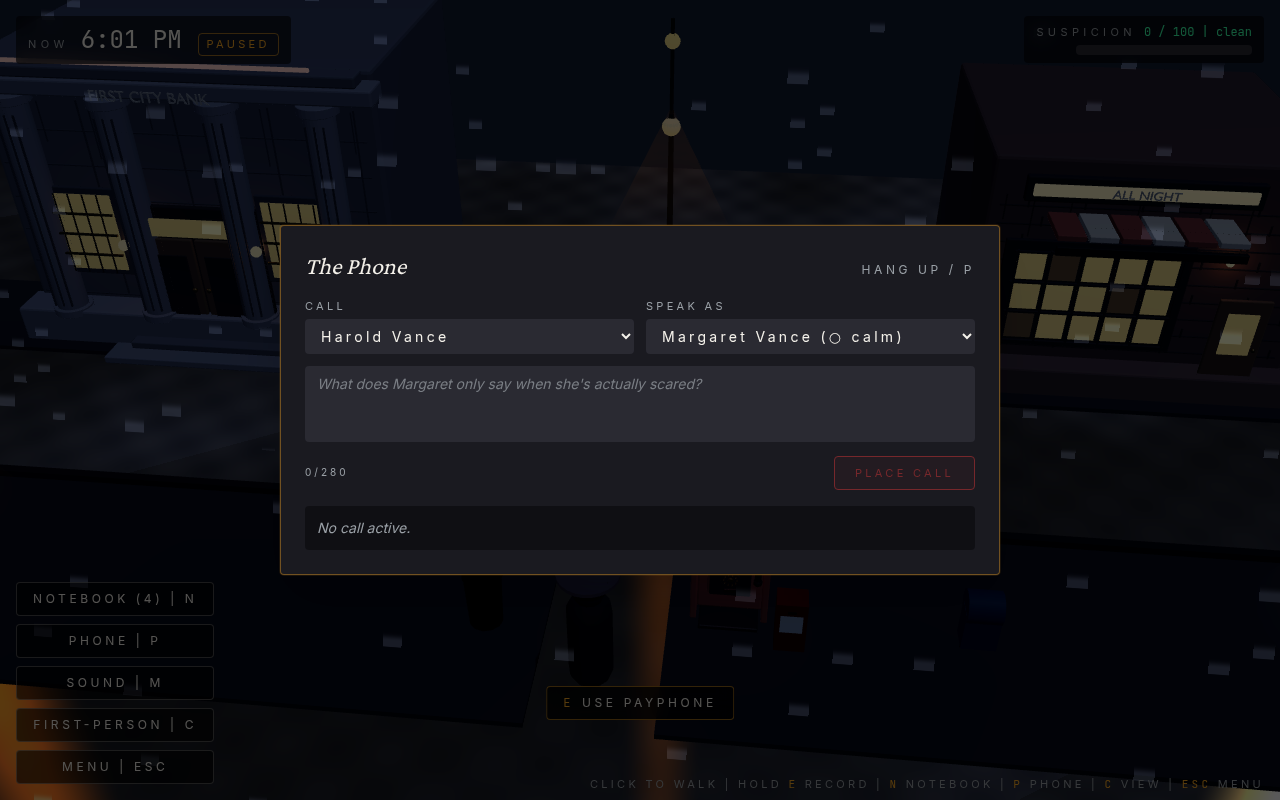
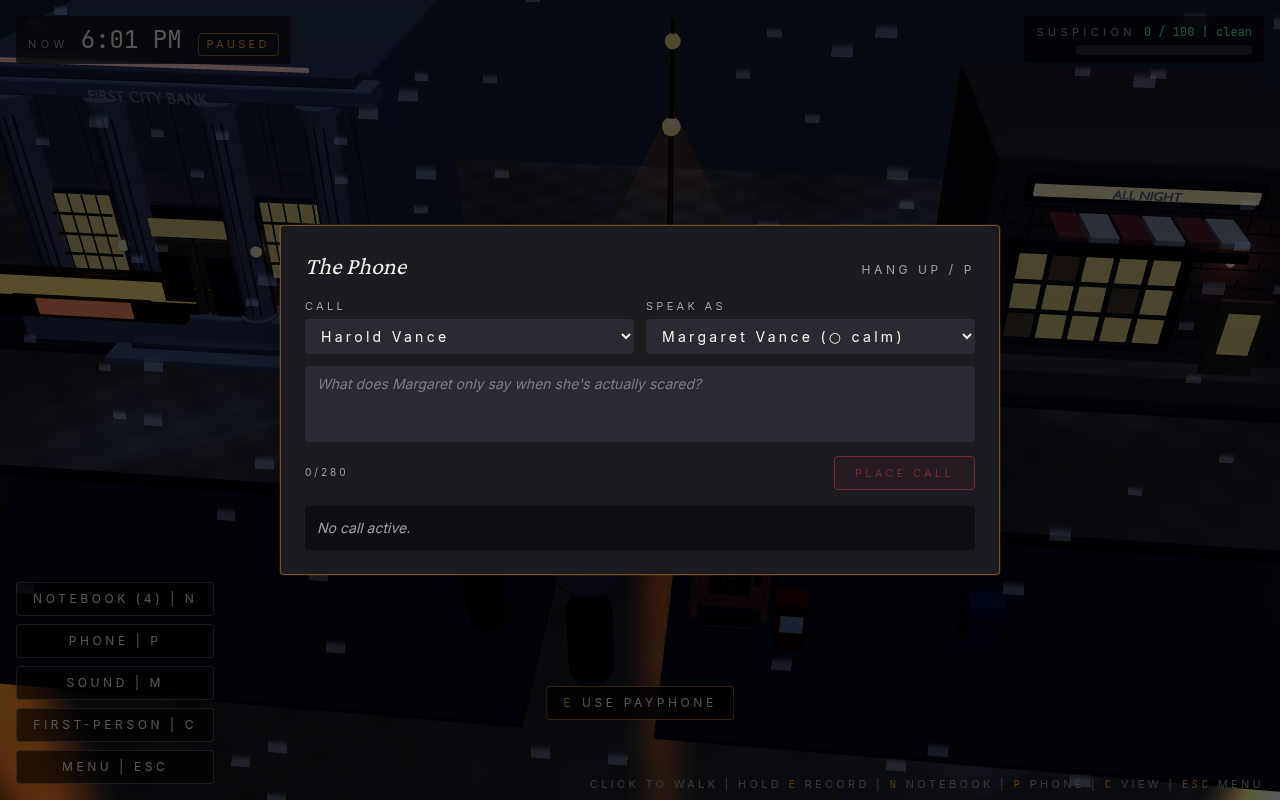
Detailed Briefcase + NeonBankSign props, escalating auth-failure heat
Visual lift (immediate, runtime):
- New Briefcase prop replaces the 3-box stub inside the vault. Brass
  corners, riveted clasp, leather-wrapped handle, brass top trim — reads
  as "the object you came for" instead of a generic block.
- New NeonBankSign mounts above the bank facade on the street. Stacked
  amber "FIRST CITY" / red "BANK" emissive bars with brass mounting
  brackets and a faint amber wash spilling onto the wall behind.

Both are also added to scripts/blender/noir_kit.py (alongside a
street-mailbox factory) so users running `npm run generate-assets` get
higher-quality baked GLB versions over the runtime primitives.

Gameplay deepening: escalating auth-failure heat. The first failed voice
auth costs 15 heat (kinder than the old flat 20 — first gamble is safe).
Each subsequent failure adds 5 heat, capped at 40. Brute-forcing every
card in the notebook used to be a cheap fishing strategy; now it self-
defeats. The auth dialog also surfaces the upcoming cost ("logged N
failed attempts; next miss draws X heat") so players can see the
pressure before clicking.

E2E 60/60 still passing.

diff --git a/src/components/props/Briefcase.tsx b/src/components/props/Briefcase.tsx
@@ -1,0 +1,74 @@
+"use client";
+
+interface Props {
+  position: [number, number, number];
+}
+
+/**
+ * The briefcase on its pedestal inside the vault. Brass corners, clasp,
+ * leather-wrapped handle. Replaces an earlier 3-box stub and reads as
+ * "object you're stealing" rather than "block".
+ */
+export default function Briefcase({ position }: Props) {
+  return (
+    <group position={position}>
+      {/* Wood pedestal */}
+      <mesh position={[0, 0.46, 0]} castShadow>
+        <boxGeometry args={[0.74, 0.92, 0.6]} />
+        <meshStandardMaterial color="#3a2114" roughness={0.5} />
+      </mesh>
+      {/* Brass cap */}
+      <mesh position={[0, 0.94, 0]}>
+        <boxGeometry args={[0.78, 0.04, 0.64]} />
+        <meshStandardMaterial color="#a87828" metalness={0.9} roughness={0.32} />
+      </mesh>
+      {/* Body */}
+      <mesh position={[0, 1.05, 0]} castShadow>
+        <boxGeometry args={[0.62, 0.18, 0.44]} />
+        <meshStandardMaterial color="#3a2114" roughness={0.45} />
+      </mesh>
+      {/* Brass corners — front */}
+      {[
+        [-0.28, 0.97, -0.19],
+        [0.28, 0.97, -0.19],
+        [-0.28, 1.13, -0.19],
+        [0.28, 1.13, -0.19],
+        [-0.28, 0.97, 0.19],
+        [0.28, 0.97, 0.19],
+        [-0.28, 1.13, 0.19],
+        [0.28, 1.13, 0.19],
+      ].map(([x, y, z], i) => (
+        <mesh key={i} position={[x, y, z]}>
+          <boxGeometry args={[0.06, 0.06, 0.06]} />
+          <meshStandardMaterial color="#a87828" metalness={0.9} roughness={0.3} />
+        </mesh>
+      ))}
+      {/* Clasp */}
+      <mesh position={[0, 1.06, 0.225]}>
+        <boxGeometry args={[0.18, 0.05, 0.025]} />
+        <meshStandardMaterial color="#a87828" metalness={0.9} roughness={0.28} />
+      </mesh>
+      {/* Handle brackets */}
+      <mesh position={[-0.12, 1.18, 0]}>
+        <boxGeometry args={[0.04, 0.05, 0.05]} />
+        <meshStandardMaterial color="#a87828" metalness={0.9} roughness={0.32} />
+      </mesh>
+      <mesh position={[0.12, 1.18, 0]}>
+        <boxGeometry args={[0.04, 0.05, 0.05]} />
+        <meshStandardMaterial color="#a87828" metalness={0.9} roughness={0.32} />
+      </mesh>
+      {/* Wrapped leather handle */}
+      <mesh position={[0, 1.22, 0]} rotation={[0, 0, Math.PI / 2]}>
+        <cylinderGeometry args={[0.022, 0.022, 0.27, 18]} />
+        <meshStandardMaterial color="#1a1410" roughness={0.7} />
+      </mesh>
+      {/* Top edge brass trim — adds the brass-piping look */}
+      <mesh position={[0, 1.146, 0]}>
+        <boxGeometry args={[0.6, 0.012, 0.42]} />
+        <meshStandardMaterial color="#a87828" metalness={0.9} roughness={0.3} />
+      </mesh>
+      {/* Warm rim light */}
+      <pointLight position={[0, 1.5, 0]} intensity={1.4} color="#ffd9a0" distance={3} />
+    </group>
+  );
+}

diff --git a/src/components/props/NeonBankSign.tsx b/src/components/props/NeonBankSign.tsx
@@ -1,0 +1,81 @@
+"use client";
+
+interface Props {
+  position: [number, number, number];
+}
+
+/**
+ * Overhead neon sign for the bank facade. Two stacked words ("FIRST CITY"
+ * in amber, "BANK" in red) on a dark backplate with mounting brackets.
+ * Self-emit so it reads against the night sky without needing a stage light.
+ */
+export default function NeonBankSign({ position }: Props) {
+  return (
+    <group position={position}>
+      {/* Brass frame */}
+      <mesh position={[0, 0, -0.012]}>
+        <boxGeometry args={[3.7, 0.96, 0.2]} />
+        <meshStandardMaterial color="#a87828" metalness={0.85} roughness={0.32} />
+      </mesh>
+      {/* Black backplate */}
+      <mesh position={[0, 0, 0]}>
+        <boxGeometry args={[3.6, 0.9, 0.18]} />
+        <meshStandardMaterial color="#07070b" roughness={0.7} />
+      </mesh>
+      {/* "FIRST CITY" amber bar (acts as the lit area for the top word) */}
+      <mesh position={[0, 0.2, 0.105]}>
+        <boxGeometry args={[3.2, 0.36, 0.04]} />
+        <meshStandardMaterial
+          color="#160a04"
+          emissive="#f5a623"
+          emissiveIntensity={2.2}
+          roughness={0.38}
+        />
+      </mesh>
+      {/* "BANK" red bar (lower word) */}
+      <mesh position={[0, -0.24, 0.105]}>
+        <boxGeometry args={[1.8, 0.32, 0.04]} />
+        <meshStandardMaterial
+          color="#1a0506"
+          emissive="#ff3030"
+          emissiveIntensity={2.4}
+          roughness={0.35}
+        />
+      </mesh>
+      {/* Tube bracket left */}
+      <mesh position={[-1.74, 0, 0.105]} rotation={[0, 0, Math.PI / 2]}>
+        <cylinderGeometry args={[0.015, 0.015, 0.84, 14]} />
+        <meshStandardMaterial
+          color="#160a04"
+          emissive="#f5a623"
+          emissiveIntensity={1.8}
+        />
+      </mesh>
+      {/* Tube bracket right */}
+      <mesh position={[1.74, 0, 0.105]} rotation={[0, 0, Math.PI / 2]}>
+        <cylinderGeometry args={[0.015, 0.015, 0.84, 14]} />
+        <meshStandardMaterial
+          color="#160a04"
+          emissive="#f5a623"
+          emissiveIntensity={1.8}
+        />
+      </mesh>
+      {/* Mounting brackets to the wall */}
+      <mesh position={[-1.8, 0, -0.18]}>
+        <boxGeometry args={[0.12, 0.18, 0.32]} />
+        <meshStandardMaterial color="#12141a" metalness={0.7} roughness={0.42} />
+      </mesh>
+      <mesh position={[1.8, 0, -0.18]}>
+        <boxGeometry args={[0.12, 0.18, 0.32]} />
+        <meshStandardMaterial color="#12141a" metalness={0.7} roughness={0.42} />
+      </mesh>
+      {/* Faint amber wash spilling onto the wall behind. */}
+      <pointLight
+        position={[0, -0.1, 0.5]}
+        intensity={0.6}
+        color="#f5a623"
+        distance={5}
+      />
+    </group>
+  );
+}

diff --git a/src/components/game/VoiceAuthDialog.tsx b/src/components/game/VoiceAuthDialog.tsx
@@ -23,6 +23,7 @@ export default function VoiceAuthDialog() {
   const openVault = useGame((s) => s.openVault);
   const openBankFront = useGame((s) => s.openBankFront);
   const openHallway = useGame((s) => s.openHallway);
+  const failedAuthCount = useGame((s) => s.failedAuthCount);
   const [busy, setBusy] = useState(false);
   const [verdict, setVerdict] = useState<{ passes: boolean; reason: string } | null>(null);
   const requirement = AUTH_REQUIREMENTS[auth.device];
@@ -82,7 +83,17 @@ export default function VoiceAuthDialog() {
           setActiveAuth(null);
         }, 700);
       } else {
-        raiseSuspicion(20, "failed voice auth");
+        // Escalating heat: each failure costs more than the last. The first
+        // failure is 15 (kinder than before — gives the player one safe gamble),
+        // every subsequent failure adds 5 heat up to a 40 cap. Brute-forcing
+        // with every card in the notebook is now a losing strategy.
+        const priorFails = useGame.getState().failedAuthCount;
+        const cost = Math.min(15 + 5 * priorFails, 40);
+        const reasonText =
+          priorFails === 0
+            ? "failed voice auth"
+            : `failed voice auth — system on edge (×${priorFails + 1})`;
+        raiseSuspicion(cost, reasonText);
         useGame.setState((s) => ({ failedAuthCount: s.failedAuthCount + 1 }));
       }
     } finally {
@@ -109,6 +120,17 @@ export default function VoiceAuthDialog() {
           </span>{" "}
           in the voice of {NPC_PROFILES[requirement.expectedNpc].displayName}.
         </p>
+
+        {failedAuthCount > 0 && (
+          <p
+            className="mt-3 rounded border border-noir-neon/40 bg-noir-neon/5 px-3 py-2 text-xs text-noir-neon"
+            role="status"
+          >
+            The intercom has logged {failedAuthCount} failed attempt
+            {failedAuthCount === 1 ? "" : "s"}. The next miss will draw{" "}
+            {Math.min(15 + 5 * failedAuthCount, 40)} heat.
+          </p>
+        )}
 
         <div className="mt-4 space-y-2">
           {candidates.length === 0 && (

diff --git a/src/components/scenes/BankInteriorScene.tsx b/src/components/scenes/BankInteriorScene.tsx
@@ -12,6 +12,7 @@ import TargetPing from "@/components/world/TargetPing";
 import MarbleFloor from "@/components/props/MarbleFloor";
 import TellerCounter from "@/components/props/TellerCounter";
 import Chandelier from "@/components/props/Chandelier";
+import Briefcase from "@/components/props/Briefcase";
 import NoirAsset from "@/components/assets/NoirAsset";
 import type { NpcId } from "@/game/types";
 
@@ -242,23 +243,7 @@ export default function BankInteriorScene() {
       ))}
 
       {/* Briefcase pedestal inside vault, visible after open */}
-      {vaultOpen && (
-        <group position={[0, 0, -13]}>
-          <mesh position={[0, 0.45, 0]} castShadow>
-            <boxGeometry args={[0.7, 0.9, 0.6]} />
-            <meshStandardMaterial color="#2a1810" />
-          </mesh>
-          <mesh position={[0, 1, 0]} castShadow>
-            <boxGeometry args={[0.6, 0.18, 0.4]} />
-            <meshStandardMaterial color="#5a3a22" roughness={0.4} />
-          </mesh>
-          <mesh position={[0, 1.05, 0.21]}>
-            <boxGeometry args={[0.18, 0.06, 0.02]} />
-            <meshStandardMaterial color="#a07020" metalness={1} roughness={0.3} />
-          </mesh>
-          <pointLight position={[0, 1.5, 0]} intensity={1.4} color="#ffd9a0" distance={3} />
-        </group>
-      )}
+      {vaultOpen && <Briefcase position={[0, 0, -13]} />}
 
       {viewMode === "diorama" && <PlayerCharacter />}
       {viewMode === "diorama" && <TargetPing />}

diff --git a/src/components/scenes/StreetScene.tsx b/src/components/scenes/StreetScene.tsx
@@ -17,6 +17,7 @@ import ApartmentBlock from "@/components/props/ApartmentBlock";
 import StreetLamp from "@/components/props/StreetLamp";
 import Payphone from "@/components/props/Payphone";
 import StreetFurniture from "@/components/props/StreetFurniture";
+import NeonBankSign from "@/components/props/NeonBankSign";
 import TrainStation from "@/components/props/TrainStation";
 import type { NpcId } from "@/game/types";
 
@@ -112,6 +113,8 @@ export default function StreetScene() {
 
       {/* The buildings */}
       <BankFacade position={[-10, 0, -4]} />
+      {/* Overhead neon sign for the bank, mounted above the door */}
+      <NeonBankSign position={[-10, 3.7, 0.6]} />
       <CafeFacade position={[10, 0, -4]} />
       <ApartmentBlock position={[18, 0, -2]} />
 

diff --git a/scripts/blender/noir_kit.py b/scripts/blender/noir_kit.py
@@ -418,6 +418,62 @@ def vault_audit_panel():
         cylinder(f"vault audit jewel lamp {i}", 0.04, 0.025, [x, 0.1, 0.09], MATS["neon_amber"], 12, True, "z")
 
 
+def briefcase():
+    # Brass-cornered wood briefcase that sits on its pedestal inside the vault.
+    box("briefcase wood pedestal", [0.74, 0.92, 0.6], [0, 0.46, 0], MATS["wood"], 0.025)
+    box("briefcase pedestal cap", [0.78, 0.04, 0.64], [0, 0.94, 0], MATS["brass"], 0.006)
+    # Body (sits on pedestal cap)
+    box("briefcase wood body", [0.62, 0.18, 0.44], [0, 1.05, 0], MATS["wood"], 0.012)
+    box("briefcase brass corner ll", [0.06, 0.06, 0.06], [-0.28, 0.97, -0.19], MATS["brass"], 0.003)
+    box("briefcase brass corner lr", [0.06, 0.06, 0.06], [0.28, 0.97, -0.19], MATS["brass"], 0.003)
+    box("briefcase brass corner ul", [0.06, 0.06, 0.06], [-0.28, 1.13, -0.19], MATS["brass"], 0.003)
+    box("briefcase brass corner ur", [0.06, 0.06, 0.06], [0.28, 1.13, -0.19], MATS["brass"], 0.003)
+    box("briefcase brass corner ll back", [0.06, 0.06, 0.06], [-0.28, 0.97, 0.19], MATS["brass"], 0.003)
+    box("briefcase brass corner lr back", [0.06, 0.06, 0.06], [0.28, 0.97, 0.19], MATS["brass"], 0.003)
+    box("briefcase brass corner ul back", [0.06, 0.06, 0.06], [-0.28, 1.13, 0.19], MATS["brass"], 0.003)
+    box("briefcase brass corner ur back", [0.06, 0.06, 0.06], [0.28, 1.13, 0.19], MATS["brass"], 0.003)
+    # Brass clasp + handle
+    box("briefcase brass clasp", [0.18, 0.05, 0.025], [0, 1.06, 0.225], MATS["brass"], 0.004)
+    box("briefcase brass handle bracket l", [0.04, 0.05, 0.05], [-0.12, 1.18, 0], MATS["brass"], 0.003)
+    box("briefcase brass handle bracket r", [0.04, 0.05, 0.05], [0.12, 1.18, 0], MATS["brass"], 0.003)
+    cylinder("briefcase wrapped leather handle", 0.022, 0.27, [0, 1.22, 0], MATS["dark_metal"], 18, True, "x")
+    # Faint amber rim light source baked as emissive trim, not a real light.
+    box("briefcase top edge brass trim", [0.6, 0.012, 0.42], [0, 1.146, 0], MATS["brass"], 0.002)
+
+
+def street_mailbox():
+    # Curbside USPS-style mailbox: dark green-blue, brass handle, riveted trim.
+    box("mailbox lower body", [0.68, 0.78, 0.5], [0, 0.39, 0], MATS["dark_metal"], 0.038)
+    # Curved upper hood approximated with a slightly wider box + bevel.
+    box("mailbox curved hood", [0.74, 0.32, 0.56], [0, 0.94, 0], MATS["dark_metal"], 0.06)
+    box("mailbox brass front trim", [0.7, 0.04, 0.025], [0, 0.78, 0.262], MATS["brass"], 0.003)
+    box("mailbox brass handle plate", [0.18, 0.18, 0.025], [0, 0.62, 0.262], MATS["brass"], 0.004)
+    cylinder("mailbox handle pull", 0.025, 0.16, [0, 0.62, 0.282], MATS["brass"], 14, True, "x")
+    # Stenciled label on the front (cream paint over dark body).
+    text_label("mailbox stenciled letters", "U.S. MAIL", 0.072, [0, 0.46, 0.262], MATS["cream"])
+    # Riveted side trim.
+    for i, y in enumerate([0.18, 0.48, 0.78]):
+        sphere(f"mailbox rivet l {i}", 0.018, [-0.32, y, 0.18], MATS["brass"], 10)
+        sphere(f"mailbox rivet r {i}", 0.018, [0.32, y, 0.18], MATS["brass"], 10)
+    # Pole base.
+    box("mailbox concrete footing", [0.42, 0.06, 0.42], [0, 0.03, 0], MATS["bank_stone"], 0.012)
+
+
+def neon_bank_sign():
+    # Overhead neon sign for First City Bank — meant to mount above the door.
+    box("neon sign black backplate", [3.6, 0.9, 0.18], [0, 0.45, 0], MATS["black"], 0.022)
+    box("neon sign brass frame", [3.7, 0.96, 0.2], [0, 0.45, -0.012], MATS["brass"], 0.018)
+    # Neon lettering — emissive cylinders bent into rectangles to suggest tube glyphs.
+    text_label("neon sign top word", "FIRST CITY", 0.42, [0, 0.6, 0.105], MATS["neon_amber"], extrude=0.04)
+    text_label("neon sign bottom word", "BANK", 0.34, [0, 0.16, 0.105], MATS["neon_red"], extrude=0.04)
+    # Underglow tubes flanking the lettering.
+    cylinder("neon sign tube glow left", 0.015, 0.84, [-1.74, 0.45, 0.105], MATS["neon_amber"], 14, True, "y")
+    cylinder("neon sign tube glow right", 0.015, 0.84, [1.74, 0.45, 0.105], MATS["neon_amber"], 14, True, "y")
+    # Mounting brackets at each end (simulate wall attachment).
+    box("neon sign mount bracket left", [0.12, 0.18, 0.32], [-1.8, 0.45, -0.18], MATS["dark_metal"], 0.01)
+    box("neon sign mount bracket right", [0.12, 0.18, 0.32], [1.8, 0.45, -0.18], MATS["dark_metal"], 0.01)
+
+
 def cafe_interior():
     box("cafe long walnut counter body", [10.0, 1.1, 1.0], [0, 0.55, -3.5], MATS["wood"], 0.045)
     box("cafe black stone counter top", [10.25, 0.08, 1.08], [0, 1.14, -3.5], MATS["black"], 0.026)
@@ -518,6 +574,9 @@ ASSETS = {
     "teller-counter": teller_counter,
     "records-plaque": records_plaque,
     "vault-audit-panel": vault_audit_panel,
+    "briefcase": briefcase,
+    "street-mailbox": street_mailbox,
+    "neon-bank-sign": neon_bank_sign,
 }
 
 
